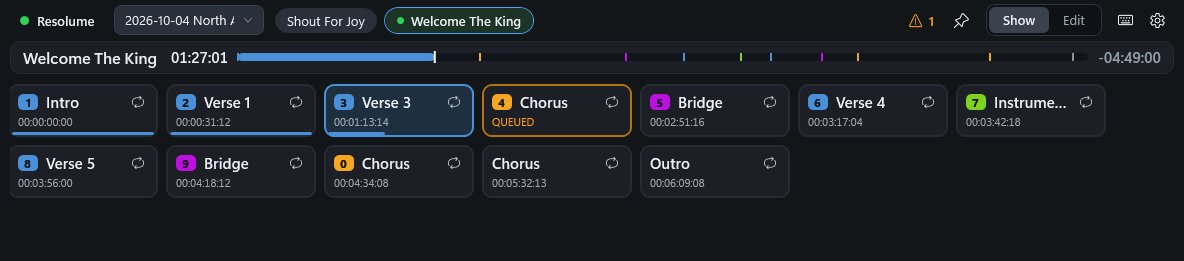
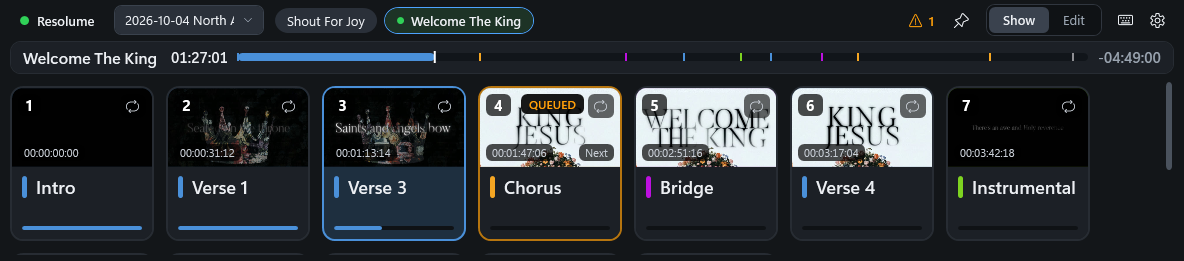
Keep full-size cards on short windows
Short windows no longer swap the cards for slim tiles: thumbnails and lyric
notes stay at every height. The condensed toolbar and one-line song header
still give the cards the room, and the 200 px minimum height stays.
Version 0.4.3.

Changed region(s): [[0.0, 0.3065, 0.9375, 0.9808], [0.6875, 0.8889, 0.9062, 0.9502], [0.9688, 0.3065, 1.0, 0.6437]]

diff --git a/src/CuepointDeck.App/Views/ShowView.xaml b/src/CuepointDeck.App/Views/ShowView.xaml
@@ -115,80 +115,6 @@
                 </DataTrigger>
             </DataTemplate.Triggers>
         </DataTemplate>
-        <!-- a slim trigger tile for short windows: number, name, loop, and the time or queue countdown; same clicks and menu -->
-        <DataTemplate x:Key="TileTemplate" DataType="{x:Type vm:SegmentCardViewModel}">
-            <Border x:Name="Card" Margin="4" CornerRadius="9" BorderThickness="2" BorderBrush="{StaticResource SeparatorBrush}"
-                    Background="{StaticResource PanelBrush}" Cursor="Hand" MinWidth="150" Padding="8,5,6,0"
-                    Width="{Binding DataContext.CardScale, RelativeSource={RelativeSource AncestorType=UserControl}, Converter={StaticResource Scale}, ConverterParameter=220}"
-                    MouseLeftButtonUp="Card_MouseLeftButtonUp" ToolTip="{Binding RangeText}">
-                <Border.ContextMenu>
-                    <ContextMenu>
-                        <MenuItem Header="Jump Now" InputGestureText="{Binding CutGesture}" Command="{Binding CutCommand}"/>
-                        <MenuItem Header="Jump at End of Current Segment" InputGestureText="{Binding QueueGesture}" Command="{Binding QueueCommand}"/>
-                        <Separator/>
-                        <MenuItem Header="Loop This Segment" IsChecked="{Binding IsLooping, Mode=OneWay}" Command="{Binding ToggleLoopCommand}"/>
-                        <Separator/>
-                        <MenuItem Header="Edit Segment" Command="{Binding EditCommand}"/>
-                    </ContextMenu>
-                </Border.ContextMenu>
-                <Grid>
-                    <Grid.RowDefinitions>
-                        <RowDefinition Height="Auto"/>
-                        <RowDefinition Height="Auto"/>
-                        <RowDefinition Height="Auto"/>
-                    </Grid.RowDefinitions>
-                    <DockPanel Grid.Row="0">
-                        <Border DockPanel.Dock="Left" Background="{Binding ColorHex, Converter={StaticResource Hex}}" CornerRadius="5" Padding="6,0" MinWidth="20" Margin="0,0,8,0" VerticalAlignment="Center"
-                                Visibility="{Binding NumberLabel, Converter={StaticResource NotNullVis}}">
-                            <TextBlock Text="{Binding NumberLabel}" FontSize="12" FontWeight="Bold" Foreground="#0F1215" HorizontalAlignment="Center"/>
-                        </Border>
-                        <ToggleButton DockPanel.Dock="Right" Width="24" Height="22" FontSize="12" Margin="4,0,0,0" Background="Transparent"
-                                      Style="{StaticResource LoopButton}" IsChecked="{Binding IsLooping, Mode=OneWay}" Command="{Binding ToggleLoopCommand}"
-                                      Content="&#xE8EE;" ToolTip="Loop: at its end, go back to its start. L loops the live segment; Esc stops."/>
-                        <TextBlock Text="{Binding Name}" FontSize="15" FontWeight="SemiBold" TextTrimming="CharacterEllipsis" VerticalAlignment="Center"/>
-                    </DockPanel>
-                    <TextBlock x:Name="Sub" Grid.Row="1" Text="{Binding StartText}" FontSize="11" Opacity="0.65" Margin="0,1,0,3" Typography.NumeralAlignment="Tabular" TextTrimming="CharacterEllipsis"/>
-                    <ProgressBar Grid.Row="2" Height="3" Minimum="0" Maximum="1" Value="{Binding Progress, Mode=OneWay}" Margin="-6,0,-4,0"
-                                 Background="Transparent" BorderThickness="0" Foreground="{Binding ColorHex, Converter={StaticResource Hex}}"/>
-                </Grid>
-            </Border>
-            <DataTemplate.Triggers>
-                <Trigger SourceName="Card" Property="IsMouseOver" Value="True">
-                    <Setter TargetName="Card" Property="BorderBrush" Value="#3A424D"/>
-                </Trigger>
-                <DataTrigger Binding="{Binding IsNext}" Value="True">
-                    <Setter TargetName="Sub" Property="Text" Value="Next"/>
-                </DataTrigger>
-                <DataTrigger Binding="{Binding IsLive}" Value="True">
-                    <Setter TargetName="Card" Property="BorderBrush" Value="{Binding ColorHex, Converter={StaticResource Hex}}"/>
-                    <Setter TargetName="Card" Property="Background" Value="{Binding ColorHex, Converter={StaticResource Hex}, ConverterParameter=0.2}"/>
-                </DataTrigger>
-                <DataTrigger Binding="{Binding IsQueued}" Value="True">
-                    <Setter TargetName="Card" Property="BorderBrush" Value="{StaticResource WarnBrush}"/>
-                    <Setter TargetName="Sub" Property="Text" Value="{Binding QueueText}"/>
-                    <Setter TargetName="Sub" Property="Foreground" Value="{StaticResource WarnBrush}"/>
-                    <Setter TargetName="Sub" Property="Opacity" Value="1"/>
-                    <DataTrigger.EnterActions>
-                        <BeginStoryboard x:Name="TilePulse">
-                            <Storyboard RepeatBehavior="Forever" AutoReverse="True">
-                                <DoubleAnimation Storyboard.TargetName="Card" Storyboard.TargetProperty="BorderBrush.Opacity" From="1" To="0.3" Duration="0:0:0.6"/>
-                            </Storyboard>
-                        </BeginStoryboard>
-                    </DataTrigger.EnterActions>
-                    <DataTrigger.ExitActions>
-                        <StopStoryboard BeginStoryboardName="TilePulse"/>
-                    </DataTrigger.ExitActions>
-                </DataTrigger>
-                <DataTrigger Binding="{Binding IsFlashing}" Value="True">
-                    <Setter TargetName="Card" Property="BorderBrush" Value="{StaticResource DangerBrush}"/>
-                    <Setter TargetName="Card" Property="Background" Value="#4DFF453A"/>
-                </DataTrigger>
-                <DataTrigger Binding="{Binding DataContext.CanFire, RelativeSource={RelativeSource AncestorType=UserControl}}" Value="False">
-                    <Setter TargetName="Card" Property="Opacity" Value="0.5"/>
-                    <Setter TargetName="Card" Property="Cursor" Value="Arrow"/>
-                </DataTrigger>
-            </DataTemplate.Triggers>
-        </DataTemplate>
     </UserControl.Resources>
 
     <Grid>
@@ -255,15 +181,7 @@
 
         <!-- ===== cards ===== -->
         <ScrollViewer Grid.Row="1" VerticalScrollBarVisibility="Auto" Focusable="False" Visibility="{Binding HasSong, Converter={StaticResource Vis}}">
-            <ItemsControl ItemsSource="{Binding Cards}" Focusable="False" Margin="-6,0">
-                <ItemsControl.Style>
-                    <Style TargetType="ItemsControl">
-                        <Setter Property="ItemTemplate" Value="{StaticResource CardTemplate}"/>
-                        <Style.Triggers>
-                            <DataTrigger Binding="{Binding IsMinimal}" Value="True"><Setter Property="ItemTemplate" Value="{StaticResource TileTemplate}"/></DataTrigger>
-                        </Style.Triggers>
-                    </Style>
-                </ItemsControl.Style>
+            <ItemsControl ItemsSource="{Binding Cards}" ItemTemplate="{StaticResource CardTemplate}" Focusable="False" Margin="-6,0">
                 <ItemsControl.ItemsPanel>
                     <ItemsPanelTemplate>
                         <WrapPanel Orientation="Horizontal"/>

diff --git a/src/CuepointDeck.App/ViewModels/ShellViewModel.cs b/src/CuepointDeck.App/ViewModels/ShellViewModel.cs
@@ -75,12 +75,10 @@ public partial class ShellViewModel : ObservableObject
     [ObservableProperty] private bool _toastVisible;
 
     // ---- density: the window's height decides how much room the toolbar and header take
-    /// <summary>Under 720 px tall: a tighter toolbar (the setlist always stays in it) and a one-line song header.</summary>
+    /// <summary>Under 720 px tall: a tighter toolbar (the setlist always stays in it) and a one-line song header,
+    /// so the cards (always full size, with thumbnails and lyrics) keep the room.</summary>
     [ObservableProperty] private bool _isCompact;
-    /// <summary>Under 460 px tall: the cards also become slim trigger tiles without thumbnails.</summary>
-    [ObservableProperty] private bool _isMinimal;
     partial void OnIsCompactChanged(bool value) => Show.IsCompact = value;
-    partial void OnIsMinimalChanged(bool value) => Show.IsMinimal = value;
 
     // ---- content
     [ObservableProperty] private object? _currentView;

diff --git a/src/CuepointDeck.App/MainWindow.xaml.cs b/src/CuepointDeck.App/MainWindow.xaml.cs
@@ -26,13 +26,8 @@ public partial class MainWindow : Window, Views.IDimmable
         SizeChanged += (_, _) => UpdateDensity();
     }
 
-    /// <summary>Short windows give the trigger cards the room: tighter chrome under 720 px, slim tiles under 460 px.</summary>
-    private void UpdateDensity()
-    {
-        var h = ActualHeight;
-        _vm.IsCompact = h < 720;
-        _vm.IsMinimal = h < 460;
-    }
+    /// <summary>Short windows give the trigger cards the room: under 720 px the toolbar and song header condense.</summary>
+    private void UpdateDensity() => _vm.IsCompact = ActualHeight < 720;
 
     public void SetDimmed(bool dimmed) => DimLayer.Visibility = dimmed ? Visibility.Visible : Visibility.Collapsed;
 

diff --git a/src/CuepointDeck.App/ViewModels/ShowViewModel.cs b/src/CuepointDeck.App/ViewModels/ShowViewModel.cs
@@ -52,7 +52,6 @@ public partial class ShowViewModel : ObservableObject
 
     // ---- density (set by the window from its height)
     [ObservableProperty] private bool _isCompact;
-    [ObservableProperty] private bool _isMinimal;
     public bool ShowFullHeader => HasSong && !IsCompact;
     public bool ShowSlimHeader => HasSong && IsCompact;
     partial void OnIsCompactChanged(bool value) { OnPropertyChanged(nameof(ShowFullHeader)); OnPropertyChanged(nameof(ShowSlimHeader)); }

diff --git a/README.md b/README.md
@@ -138,8 +138,8 @@ bottom of the window and never block a click.
 - Ctrl + and Ctrl − make the cards bigger or smaller; Ctrl+0 resets.
 - The window can be as short as 200 px in Show mode, so it can sit as a strip under Resolume. Under 720 px tall the
   toolbar tightens, the setlist always stays in the toolbar row, and the song header becomes one slim line (title,
-  time, progress, time left). Under 460 px the cards become slim trigger tiles (number, name, loop, and the start time,
-  "Next" or the queue countdown) so a whole row of triggers still fits. Under 900 px wide the connection status shows
+  time, progress, time left), so the cards keep the room. The cards themselves stay full size at every height, with
+  their thumbnails and lyric notes; on a short window they scroll. Under 900 px wide the connection status shows
   just its dot and the shortcuts button steps aside (F1 still works). Edit mode needs at least 400 px and the window
   grows back to that when you switch to it.
 - Quitting asks first ("Quit Cuepoint Deck?", with Cancel as the default so a stray Return can't close the deck

diff --git a/docs/DESIGN.md b/docs/DESIGN.md
@@ -32,8 +32,9 @@ The app runs in a dark booth beside Resolume, so it is dark only.
   warning. A healthy toolbar is quiet.
 - **Popovers** carry detail on demand, tied to the control that opened them: connection details, things needing
   attention (each with the action that fixes it), keyboard shortcuts. They close when you click away.
-- **Content first when space is short.** Show mode's chrome condenses as the window gets shorter (tighter toolbar,
-  a one-line song header, then slim trigger tiles), so the triggers, which are the content, keep the space.
+- **Content first when space is short.** Show mode's chrome condenses as the window gets shorter (a tighter toolbar
+  and a one-line song header), so the trigger cards, which are the content, keep the space. The cards themselves never
+  shrink: their thumbnails and lyric notes are how the operator recognises a section.
 - **Feedback** that doesn't need a decision is a toast at the bottom of the window. It never blocks or takes a click.
   The status strip of text it replaces is gone.
 
